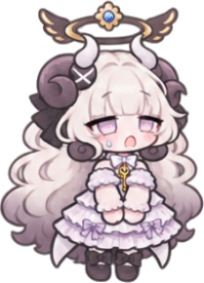
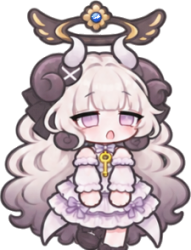
fix(character): 다래 하얀 오프숄더 drag_0을 drag_1 그림으로(다른 자세라 잡을 때 몸이 커짐, QA 11-26)
Claude-Session: https://claude.ai/code/session_01SbFuD9LBQUw7gFTz2Mmv9g

diff --git a/scripts/build_outfit_frames.py b/scripts/build_outfit_frames.py
@@ -48,7 +48,10 @@ TEMPLATES = {("레나", "lab"): ("전체프레임_v2", 3, 4, (930, 1320), True),
              ("레나", "red_dress"): ("전체프레임_v2", 3, 4, (930, 1320), True)}
 HEAD = 0.42
 FACE_FIX = {("레나", "lab"): ("walk",)}
-HALO_FIT = {"다래": ("drag",)}   # 옷 그림 끌기 칸마다 몸 크기가 달라(후광 폭 142→163) 후광 폭으로 칸 배율을 맞춤
+HALO_FIT = {"다래": ("drag",)}
+# 다래 하얀 오프숄더 drag_0만 다리 편 서 있는 자세로 그려져(키 282 vs 249~258, 몸통 폭 198 vs 179~191) 잡을 때 몸이 커짐 →
+# 이번 배포는 drag_1 그림으로 대신(반복 = drag_1, drag_1, drag_2, drag_3, fall도 drag_1). 새 drag_0은 사용자에게 물어 따로.
+FRAME_COPY = {("다래", "white_offshoulder"): (("drag_1", "drag_0"),)}   # 옷 그림 끌기 칸마다 몸 크기가 달라(후광 폭 142→163) 후광 폭으로 칸 배율을 맞춤
 HALO_BAND = 0.09                 # 맨 위 9% 띠 = 날개 달린 후광
 # 머리 위 장식(밀짚모자)으로 머리 실루엣을 못 쓰는 옷 → 같은 템플릿 자세 옷(티셔츠)의 같은 칸 '모자 아래 띠(키 25~55%) 폭'에 맞춤
 REF_FIT = {("아리아", "summer_dress"): ("tshirt", ("pet",))}
@@ -197,6 +200,8 @@ def main() -> None:
         if walk_dir is not None:   # 걷기 8장은 정리해 둔 PNG 그대로(색 맞추기·배율 없음)
             frames = {n: v for n, v in frames.items() if not re.fullmatch(r"walk_\d+", n)}
             frames.update({f"walk_{i}": imread(walk_dir / f"walk_{i}.png", cv2.IMREAD_UNCHANGED) for i in range(FRAMES)})
+        for src, dst in FRAME_COPY.get((folder, key), ()):   # 다른 자세로 그려진 칸을 같은 묶음 다른 칸으로(임시, QA 11-26)
+            frames[dst] = frames[src].copy()
         if folder in HALO_FIT:   # 다래 끌기(QA 11-26): 후광(모양이 안 변하는 물체) 폭을 기본 다래 같은 칸 × (이 옷/기본 서 있기)에
             for name in [n for n in frames if group_of(n) in HALO_FIT[folder]]:
                 base = imread(APP_ROOT / folder / f"{name}.png", cv2.IMREAD_UNCHANGED)

diff --git a/tests/test_outfit_v2_frames.py b/tests/test_outfit_v2_frames.py
@@ -207,3 +207,17 @@ def test_lena_lab_walk_head_is_one_drawing():
         lb = cv2.cvtColor(np.ascontiguousarray(b[:top, :, :3]), cv2.COLOR_BGR2LAB)[..., 0].astype(float)
         solid = (a[:top, :, 3] > 200) & (b[:top, :, 3] > 200)
         assert np.abs(la - lb)[solid].mean() * 100 / 255 <= 2, i
+
+
+def test_dare_offshoulder_drag_body_width_close_to_base():
+    """QA 11-26 오프숄더 잡을 때 몸이 커지는 칸(drag_0 다른 자세) → drag_1로 대신: 몸통 폭(키 40~70%) 180/180/184/192.
+    drag_3은 치마가 더 퍼진 그림이라 192 — 범위 6.7%(기본 다래 2.5%), 전 drag_0 198이 있던 때(10%)보다 줄어든 값으로 고정."""
+    def body(frame):
+        h = frame.shape[0]
+        xs = np.where((frame[round(h * 0.4):round(h * 0.7), :, 3] > 128).any(axis=0))[0]
+        return xs.max() - xs.min() + 1
+
+    def spread(folder):
+        ws = [body(_read(folder / f"drag_{i}.png")) for i in range(4)]
+        return (max(ws) - min(ws)) / min(ws)
+    assert spread(CHARS / "다래" / "outfits" / "white_offshoulder") <= spread(CHARS / "다래") + 0.045
